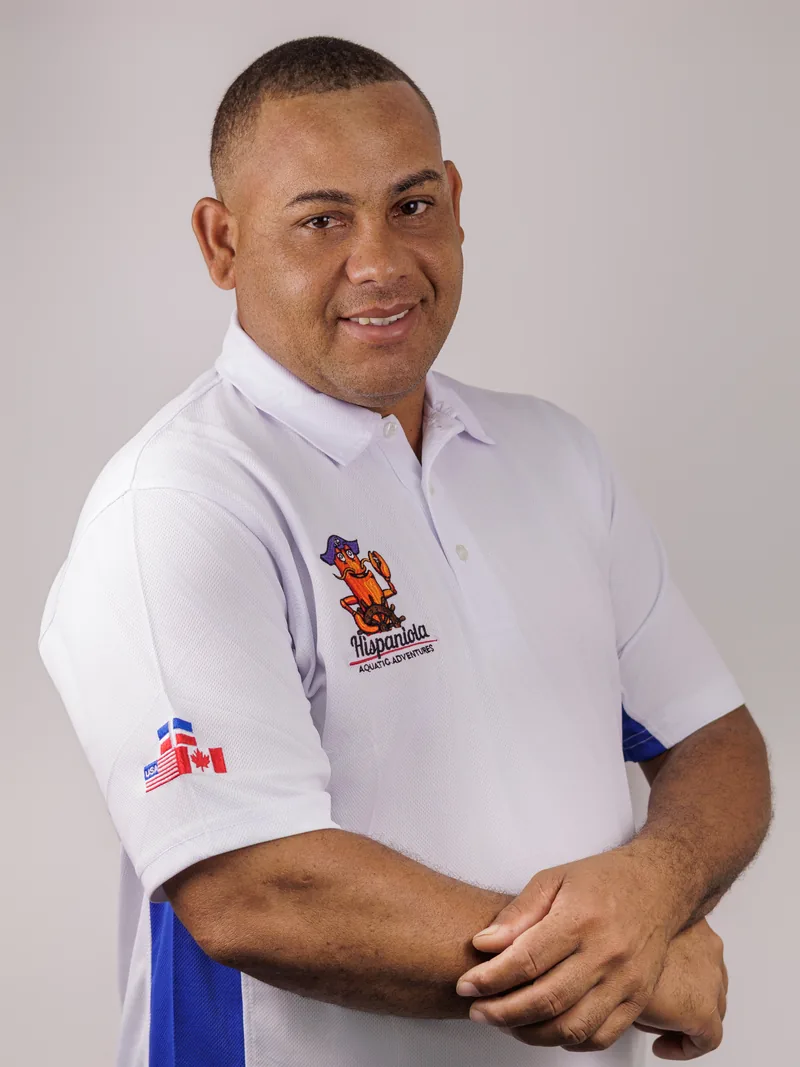
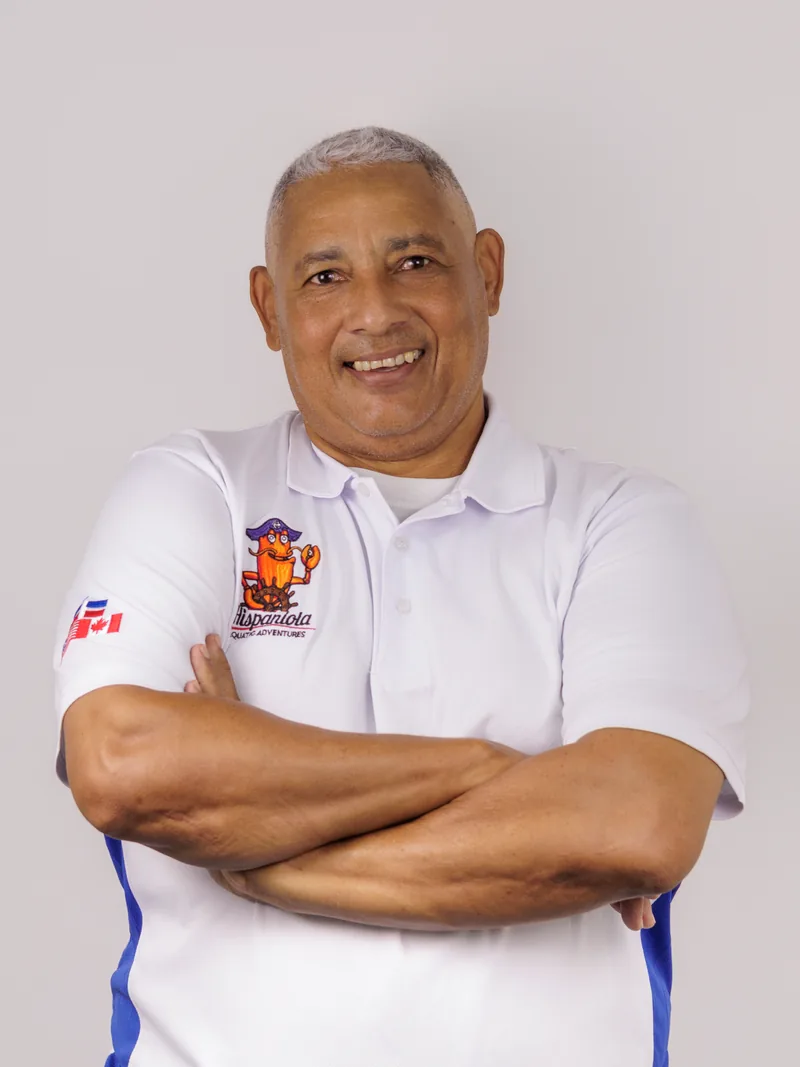
El vídeo se pausa al acoplarse, y en cocina había una persona repetida
Tres correcciones de Samuel sobre lo de ayer.

EL VÍDEO SE PAUSA AL MINIMIZARLO. Antes seguía sonando desde la esquina, con
la idea de no cortar la reproducción. Con voz en off de tres minutos saliendo
de una miniatura mientras se lee la página, eso es ruido y no compañía. El
`currentTime` no se toca, así que al devolverlo al centro sigue donde estaba.
Vale para los tres caminos que acoplan: la equis, el clic en el fondo y Escape.

Y EL ACOPLADO ES MÁS PEQUEÑO: de 288 a 192 px de ancho (192x108 en pantalla).
Como la equis y el disco de play viajan DENTRO de la caja, el `scale` también
los encogía —a esa escala la equis aterrizaba en 7 px— así que ahora se les da
el tamaño dividido por la escala y caen en pantalla con los píxeles que se
piden: disco de 36 y equis de 28.

COCINA TENÍA UNA PERSONA DOS VECES. Al agrupar los 17 archivos por cara separé
IMG_8771 de IMG_8773 y lo junté con IMG_8775. Samuel lo vio en la página: los
tres son la MISMA persona, con tres fotos en vez de dos. Sale IMG_8771 y se
queda IMG_8773, la de brazos cruzados. Con eso cocina baja a 8, que es justo lo
que él contaba, y la página pasa de 28 retratos a 27.

diff --git a/app/src/components/equipo/modal-video-crew.tsx b/app/src/components/equipo/modal-video-crew.tsx
@@ -14,8 +14,9 @@ import { Play, X } from 'lucide-react'
 //     oscurecido y desenfocado. No arranca solo: espera un clic.
 //   · Al cerrarlo NO desaparece. El mismo <video> —el mismo elemento, sin
 //     desmontar— viaja al pie izquierdo y se queda pequeño, con el fondo ya
-//     retirado. Si estaba reproduciéndose, sigue: no se pierde ni el minuto ni
-//     el sonido.
+//     retirado. Se PAUSA al hacerlo (Samuel, 2026-08-21): un vídeo con voz
+//     sonando desde una miniatura mientras se lee la página es ruido, no
+//     compañía. El minuto no se pierde, así que al volver sigue donde estaba.
 //   · Al pulsar el pequeño vuelve al centro. Ida y vuelta las veces que haga
 //     falta.
 //
@@ -38,7 +39,7 @@ import { Play, X } from 'lucide-react'
 const ANCHO_MAXIMO = 1024
 /** Ancho del estado acoplado. Lo justo para reconocer la escena sin tapar la
  *  página que hay detrás. */
-const ANCHO_ACOPLADO = 288
+const ANCHO_ACOPLADO = 192
 /** Aire contra los bordes de la ventana, en los dos estados. */
 const MARGEN = 20
 
@@ -71,7 +72,14 @@ export function ModalVideoCrew({ src, poster }: { src: string; poster: string })
     }
   }, [estado])
 
-  const acoplar = useCallback(() => setEstado('acoplado'), [])
+  // Acoplar PAUSA. Lo pidió Samuel el 2026-08-21 y es lo correcto: la voz en
+  // off de un vídeo de tres minutos saliendo de una miniatura de 192px,
+  // mientras alguien lee la página, se busca de dónde viene para apagarla. El
+  // `currentTime` no se toca, así que al volver al centro sigue donde estaba.
+  const acoplar = useCallback(() => {
+    video.current?.pause()
+    setEstado('acoplado')
+  }, [])
 
   useEffect(() => {
     if (estado !== 'grande') return
@@ -97,6 +105,13 @@ export function ModalVideoCrew({ src, poster }: { src: string; poster: string })
   const escala = Math.min(1, ANCHO_ACOPLADO / ancho)
 
   const grande = estado === 'grande'
+  // La equis y el disco de play viven DENTRO de la caja, así que el `scale` los
+  // encoge con ella: a escala 0,19 una equis de 36px aterriza en 7. Se les da
+  // el tamaño dividido por la escala para que caigan en pantalla con los
+  // píxeles que se piden aquí, que son los que hacen falta para poder tocarlos.
+  const compensado = (enPantalla: number) =>
+    grande ? undefined : Math.round(enPantalla / escala)
+
   const transform = grande
     ? `translate(${(ventana.w - ancho) / 2}px, ${(ventana.h - alto) / 2}px) scale(1)`
     : `translate(${MARGEN}px, ${ventana.h - alto * escala - MARGEN}px) scale(${escala})`
@@ -177,15 +192,23 @@ export function ModalVideoCrew({ src, poster }: { src: string; poster: string })
               aria-label="Reproducir el video de la tripulación"
               aria-hidden={!grande}
               tabIndex={grande ? undefined : -1}
-              className={`relative grid size-16 place-items-center rounded-full bg-white/90 text-navy shadow-card-flotante transition-transform duration-300 sm:size-20 ${
-                grande ? 'pointer-events-auto hover:scale-110' : 'pointer-events-none'
+              style={{ width: compensado(36), height: compensado(36) }}
+              className={`relative grid place-items-center rounded-full bg-white/90 text-navy shadow-card-flotante transition-transform duration-300 ${
+                grande
+                  ? 'pointer-events-auto size-16 hover:scale-110 sm:size-20'
+                  : 'pointer-events-none'
               }`}
             >
               <span
                 aria-hidden="true"
                 className="absolute inset-0 rounded-full bg-white/60 motion-safe:animate-ping"
               />
-              <Play className="relative size-7 translate-x-0.5 fill-current sm:size-8" />
+              <Play
+                style={{ width: compensado(15), height: compensado(15) }}
+                className={`relative translate-x-0.5 fill-current ${
+                  grande ? 'size-7 sm:size-8' : ''
+                }`}
+              />
             </button>
           </div>
         ) : null}
@@ -195,16 +218,19 @@ export function ModalVideoCrew({ src, poster }: { src: string; poster: string })
             habría forma de quitárselo de encima en toda la página. */}
         <button
           type="button"
-          onClick={() => setEstado(grande ? 'acoplado' : 'fuera')}
+          onClick={() => (grande ? acoplar() : setEstado('fuera'))}
           aria-label={grande ? 'Minimizar el video' : 'Cerrar el video'}
-          // El botón viaja dentro de la caja, así que en el estado pequeño lo
-          // encoge el mismo `scale` que al vídeo. Se compensa agrandándolo
-          // cuando está acoplado para que siga siendo tocable.
-          className={`absolute right-3 top-3 grid place-items-center rounded-full bg-navy/70 text-white ring-1 ring-white/25 backdrop-blur-sm transition hover:bg-navy ${
-            grande ? 'size-9' : 'size-20'
+          style={{
+            width: compensado(28),
+            height: compensado(28),
+            right: compensado(8),
+            top: compensado(8),
+          }}
+          className={`absolute grid place-items-center rounded-full bg-navy/70 text-white ring-1 ring-white/25 backdrop-blur-sm transition hover:bg-navy ${
+            grande ? 'right-3 top-3 size-9' : ''
           }`}
         >
-          <X className={grande ? 'size-4' : 'size-10'} />
+          <X style={{ width: compensado(15), height: compensado(15) }} className={grande ? 'size-4' : ''} />
         </button>
       </div>
     </>

diff --git a/app/src/data/equipo.ts b/app/src/data/equipo.ts
@@ -3,7 +3,7 @@
 // [2026-08-21] LOS RETRATOS YA SON REALES. El cliente entregó la carpeta
 // «FOTO PARA NUEVA WEB 2026/ABOUT US/CREW»: 55 fotos de estudio repartidas en
 // seis subcarpetas. Esta página deja de ser un molde de 70 fichas inventadas y
-// pasa a enseñar a las 28 personas de las que hay retrato.
+// pasa a enseñar a las 27 personas de las que hay retrato.
 //
 // ⚠ SIGUE SIN HABER NOMBRES, Y POR ESO LAS CARDS NO LLEVAN NINGUNO. El
 // cliente no mandó la plantilla con nombre y cargo, así que la card es el
@@ -97,7 +97,7 @@ const RETRATOS_POR_DEPARTAMENTO: Record<DepartamentoId, number> = {
   capitanes: 4,
   guias: 4,
   marinos: 1,
-  cocina: 9,
+  cocina: 8,
   oficina: 8,
   fundacion: 2,
 }
@@ -111,7 +111,7 @@ export const EQUIPO_COMPLETO: MiembroEquipoV2[] = DEPARTAMENTOS.flatMap((d) =>
 )
 
 /** Cuántos RETRATOS hay, que ya no es lo mismo que cuánta gente trabaja en la
- *  empresa: son 28 fotos de una plantilla que el cliente cifra en más de 70.
+ *  empresa: son 27 fotos de una plantilla que el cliente cifra en más de 70.
  *  Se deriva del array, como todos los contadores de esta página. */
 export const TOTAL_EQUIPO = EQUIPO_COMPLETO.length
 

diff --git a/app/src/pages/tripulacion.tsx b/app/src/pages/tripulacion.tsx
@@ -43,7 +43,7 @@ import { BLOQUE_FICHA } from '@/components/tour/bloque-ficha'
 // final no aterriza en ninguna página, ese contenido se pierde con /nosotros —
 // conviene decidirlo, no dejarlo caducar en silencio.
 //
-// [2026-08-21] YA NO ES UNA PÁGINA DE MOLDE. Los 28 retratos son las fotos de
+// [2026-08-21] YA NO ES UNA PÁGINA DE MOLDE. Los 27 retratos son las fotos de
 // estudio que entregó el cliente, agrupadas en sus seis departamentos reales.
 // Lo que sigue faltando son los NOMBRES: la card se pinta solo con la cara,
 // sin nombre inventado ni frase en primera persona. El detalle completo, en la

diff --git a/scripts/reemplazar-fotos.py b/scripts/reemplazar-fotos.py
@@ -217,16 +217,18 @@ NUEVOS = [
 # escrito para que se pueda comprobar:
 #   · CAPITANES: el contaba 3, son 4 (8849/8850, 8853/8854, 8867/8869,
 #     8913/8914 — comparadas cara a cara).
-#   · COCINA: el contaba 8, son 9. 8771 y 8775 son la MISMA persona (mismo
-#     corte, mismas cejas) y 8773 es otra distinta con una sola foto.
-# El resto cuadra: fundacion 2, guias 4, marinos 1, oficina 8.
+# El resto cuadra: cocina 8, fundacion 2, guias 4, marinos 1, oficina 8.
 #
 # Fuente 3253x4337 = 3:4 exacto, la misma proporcion que la card del muro, asi
 # que estos no se recortan: solo se reescalan.
 RETRATO = (800, 1067)
 PERSONAS = {
     "CAPITANES": ["IMG_8850", "IMG_8854", "IMG_8869", "IMG_8914"],
-    "COCINA": ["IMG_8758", "IMG_8762", "IMG_8769", "IMG_8771", "IMG_8773",
+    # ⚠ SIN IMG_8771. Al comparar las caras lo separe de 8773 y lo agrupe con
+    # 8775; Samuel lo vio en la pagina y corrigio: 8771, 8773 y 8775 son LA
+    # MISMA persona, con tres fotos en vez de dos. Con eso cocina son 8, que es
+    # justo lo que el contaba. Se queda 8773, la de brazos cruzados.
+    "COCINA": ["IMG_8758", "IMG_8762", "IMG_8769", "IMG_8773",
                "IMG_8778", "IMG_8787", "IMG_8859", "IMG_8862"],
     "FUNDACIÓN": ["IMG_8875", "IMG_8913_(2)"],
     "GUÍAS": ["IMG_8908", "IMG_8911", "IMG_8918", "IMG_8922"],
